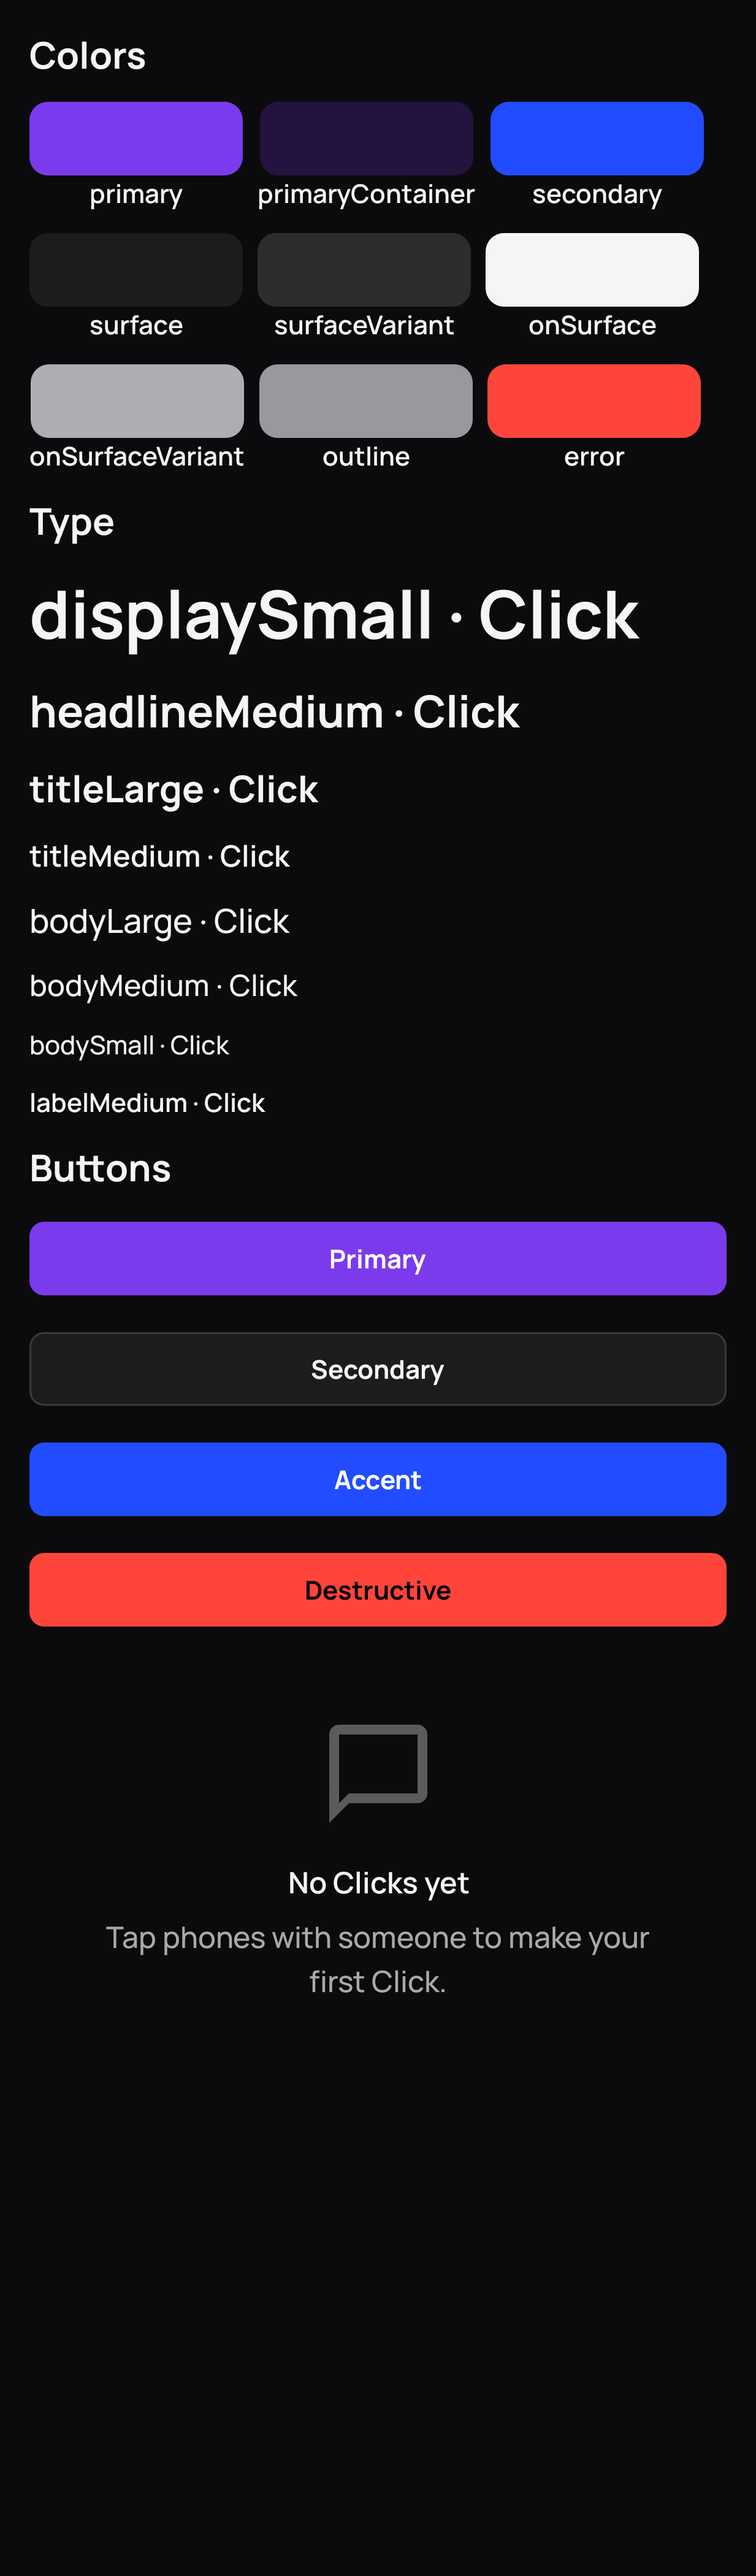
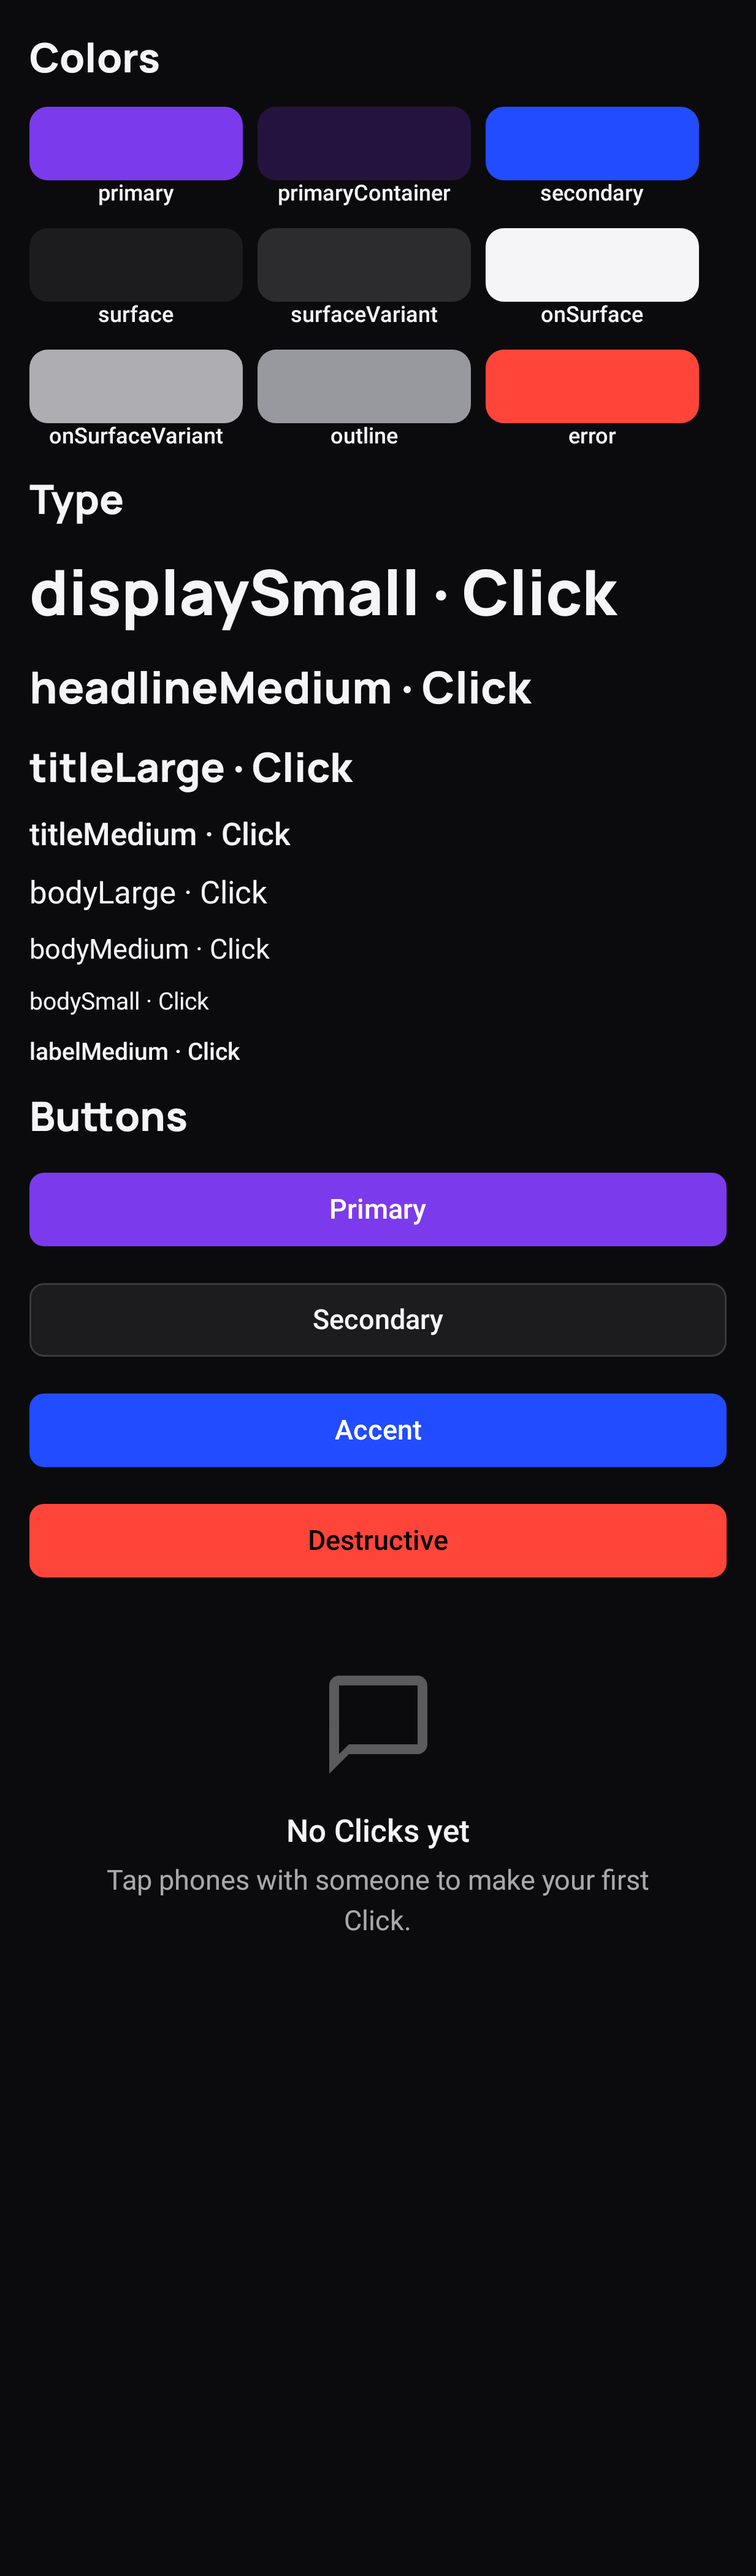
feat(theme): Manrope for headings only, system face for text
Matches click-web DESIGN.md and iOS Typography.swift: display, headline
and titleLarge are Manrope ExtraBold; titleMedium and below use the
platform face (regular body 17/15/13, semibold labels, 12sp floor).
Screenshot baselines re-recorded.

Claude-Session: https://claude.ai/code/session_014RJayqsnMRxsxn4CwuXC9w

diff --git a/composeApp/src/commonMain/kotlin/compose/project/click/click/ui/theme/Typography.kt b/composeApp/src/commonMain/kotlin/compose/project/click/click/ui/theme/Typography.kt
@@ -8,6 +8,7 @@ import androidx.compose.ui.text.font.FontFamily
 import androidx.compose.ui.text.font.FontWeight
 import androidx.compose.ui.text.style.LineHeightStyle
 import androidx.compose.ui.unit.sp
+import click.composeapp.generated.resources.Manrope_ExtraBold
 import click.composeapp.generated.resources.Res
 import click.composeapp.generated.resources.manrope_bold
 import click.composeapp.generated.resources.manrope_medium
@@ -17,133 +18,82 @@ import org.jetbrains.compose.resources.Font
 
 val ManropeFontFamily: FontFamily
     @Composable
-    get() = FontFamily(
-        Font(Res.font.manrope_regular, FontWeight.Normal),
-        Font(Res.font.manrope_medium, FontWeight.Medium),
-        Font(Res.font.manrope_semibold, FontWeight.SemiBold),
-        Font(Res.font.manrope_bold, FontWeight.Bold),
-    )
-
-private fun TextStyle.withManrope(family: FontFamily): TextStyle = copy(fontFamily = family)
+    get() =
+        FontFamily(
+            Font(Res.font.manrope_regular, FontWeight.Normal),
+            Font(Res.font.manrope_medium, FontWeight.Medium),
+            Font(Res.font.manrope_semibold, FontWeight.SemiBold),
+            Font(Res.font.manrope_bold, FontWeight.Bold),
+            Font(Res.font.Manrope_ExtraBold, FontWeight.ExtraBold),
+        )
 
 /**
- * Functional Clarity typography — Manrope with oversized headlines and
- * minimum 14sp body/label sizes.
+ * "Quiet Presence" type (click-web DESIGN.md, iOS DesignSystem/Typography.swift): Manrope ExtraBold
+ * for display and section titles only; every other role uses the platform face (Roboto) so body
+ * text reads like the rest of Android. Nothing is smaller than 12sp.
+ *
+ * | Role | Size/line | Face |
+ * |---|---|---|
+ * | display* | 44/48 · 40/44 · 34/40 | Manrope 800 |
+ * | headlineLarge / Medium / Small | 28/34 · 24/30 · 22/28 | Manrope 800 |
+ * | titleLarge | 22/28 | Manrope 800 |
+ * | titleMedium / Small | 17/24 · 15/20 | system 600 |
+ * | bodyLarge / Medium / Small | 17/24 · 15/22 · 13/18 | system 400 |
+ * | labelLarge / Medium / Small | 15/20 · 13/18 · 12/16 | system 600 |
  */
 @Composable
 fun clickTypography(): Typography {
-    val family = ManropeFontFamily
+    val display = ManropeFontFamily
+    val text = FontFamily.Default
+
+    fun heading(
+        size: Int,
+        line: Int,
+        tracking: Double = 0.0,
+    ) = TextStyle(
+        fontFamily = display,
+        fontWeight = FontWeight.ExtraBold,
+        fontSize = size.sp,
+        lineHeight = line.sp,
+        letterSpacing = tracking.sp,
+    )
+
+    fun body(
+        size: Int,
+        line: Int,
+        weight: FontWeight,
+    ) = TextStyle(fontFamily = text, fontWeight = weight, fontSize = size.sp, lineHeight = line.sp)
     return Typography(
-        displayLarge = TextStyle(
-            fontFamily = family,
-            fontWeight = FontWeight.Bold,
-            fontSize = 48.sp,
-            lineHeight = 52.sp,
-            letterSpacing = (-0.04).sp,
-        ),
-        displayMedium = TextStyle(
-            fontFamily = family,
-            fontWeight = FontWeight.Bold,
-            fontSize = 40.sp,
-            lineHeight = 44.sp,
-            letterSpacing = (-0.03).sp,
-        ),
-        displaySmall = TextStyle(
-            fontFamily = family,
-            fontWeight = FontWeight.Bold,
-            fontSize = 36.sp,
-            lineHeight = 40.sp,
-            letterSpacing = (-0.02).sp,
-        ),
-        headlineLarge = TextStyle(
-            fontFamily = family,
-            fontWeight = FontWeight.Bold,
-            fontSize = 32.sp,
-            lineHeight = 40.sp,
-            letterSpacing = (-0.02).sp,
-        ),
-        headlineMedium = TextStyle(
-            fontFamily = family,
-            fontWeight = FontWeight.Bold,
-            fontSize = 24.sp,
-            lineHeight = 32.sp,
-        ),
-        headlineSmall = TextStyle(
-            fontFamily = family,
-            fontWeight = FontWeight.Bold,
-            fontSize = 20.sp,
-            lineHeight = 28.sp,
-        ),
-        titleLarge = TextStyle(
-            fontFamily = family,
-            fontWeight = FontWeight.Bold,
-            fontSize = 20.sp,
-            lineHeight = 28.sp,
-        ),
-        titleMedium = TextStyle(
-            fontFamily = family,
-            fontWeight = FontWeight.SemiBold,
-            fontSize = 16.sp,
-            lineHeight = 24.sp,
-        ),
-        titleSmall = TextStyle(
-            fontFamily = family,
-            fontWeight = FontWeight.SemiBold,
-            fontSize = 14.sp,
-            lineHeight = 20.sp,
-        ),
-        bodyLarge = TextStyle(
-            fontFamily = family,
-            fontWeight = FontWeight.Medium,
-            fontSize = 18.sp,
-            lineHeight = 28.sp,
-        ),
-        bodyMedium = TextStyle(
-            fontFamily = family,
-            fontWeight = FontWeight.Medium,
-            fontSize = 16.sp,
-            lineHeight = 24.sp,
-        ),
-        bodySmall = TextStyle(
-            fontFamily = family,
-            fontWeight = FontWeight.Medium,
-            fontSize = 14.sp,
-            lineHeight = 20.sp,
-        ),
-        labelLarge = TextStyle(
-            fontFamily = family,
-            fontWeight = FontWeight.Bold,
-            fontSize = 14.sp,
-            lineHeight = 20.sp,
-        ),
-        labelMedium = TextStyle(
-            fontFamily = family,
-            fontWeight = FontWeight.SemiBold,
-            fontSize = 14.sp,
-            lineHeight = 20.sp,
-        ),
-        labelSmall = TextStyle(
-            fontFamily = family,
-            fontWeight = FontWeight.SemiBold,
-            fontSize = 14.sp,
-            lineHeight = 20.sp,
-        ),
+        displayLarge = heading(44, 48, -0.04),
+        displayMedium = heading(40, 44, -0.03),
+        displaySmall = heading(34, 40, -0.02),
+        headlineLarge = heading(28, 34, -0.02),
+        headlineMedium = heading(24, 30),
+        headlineSmall = heading(22, 28),
+        titleLarge = heading(22, 28),
+        titleMedium = body(17, 24, FontWeight.SemiBold),
+        titleSmall = body(15, 20, FontWeight.SemiBold),
+        bodyLarge = body(17, 24, FontWeight.Normal),
+        bodyMedium = body(15, 22, FontWeight.Normal),
+        bodySmall = body(13, 18, FontWeight.Normal),
+        labelLarge = body(15, 20, FontWeight.SemiBold),
+        labelMedium = body(13, 18, FontWeight.SemiBold),
+        labelSmall = body(12, 16, FontWeight.SemiBold),
     )
 }
 
 /**
  * Input text style for Material text fields.
  *
- * [clickTypography] bodyLarge uses 28sp line height for reading, which is too tall for
- * default Material field chrome. Fields use a shorter line box, centered, with no trim
- * so Manrope descenders (g/y/p) are not clipped.
+ * Fields use a centered 24sp line box with no trim, so descenders (g/y/p) are never clipped.
  */
 @Composable
 fun clickTextFieldTextStyle(): TextStyle =
     MaterialTheme.typography.bodyLarge.copy(
         lineHeight = 24.sp,
-        lineHeightStyle = LineHeightStyle(
-            alignment = LineHeightStyle.Alignment.Center,
-            trim = LineHeightStyle.Trim.None,
-        ),
+        lineHeightStyle =
+            LineHeightStyle(
+                alignment = LineHeightStyle.Alignment.Center,
+                trim = LineHeightStyle.Trim.None,
+            ),
     )

diff --git a/composeApp/src/androidUnitTest/kotlin/compose/project/click/click/ui/theme/TypographyScaleTest.kt b/composeApp/src/androidUnitTest/kotlin/compose/project/click/click/ui/theme/TypographyScaleTest.kt
@@ -1,0 +1,59 @@
+package compose.project.click.click.ui.theme
+
+import androidx.compose.material3.Typography
+import androidx.compose.ui.test.ExperimentalTestApi
+import androidx.compose.ui.test.runComposeUiTest
+import androidx.compose.ui.text.font.FontFamily
+import androidx.compose.ui.text.font.FontWeight
+import org.junit.runner.RunWith
+import org.robolectric.RobolectricTestRunner
+import org.robolectric.annotation.Config
+import kotlin.test.Test
+import kotlin.test.assertEquals
+import kotlin.test.assertNotEquals
+import kotlin.test.assertTrue
+
+@RunWith(RobolectricTestRunner::class)
+@Config(sdk = [35])
+@OptIn(ExperimentalTestApi::class)
+class TypographyScaleTest {
+    private fun capture(): Typography {
+        var typography: Typography? = null
+        runComposeUiTest { setContent { typography = clickTypography() } }
+        return typography!!
+    }
+
+    @Test
+    fun nothingIsSmallerThanTwelveSp() {
+        val t = capture()
+        listOf(
+            t.displayLarge,
+            t.displayMedium,
+            t.displaySmall,
+            t.headlineLarge,
+            t.headlineMedium,
+            t.headlineSmall,
+            t.titleLarge,
+            t.titleMedium,
+            t.titleSmall,
+            t.bodyLarge,
+            t.bodyMedium,
+            t.bodySmall,
+            t.labelLarge,
+            t.labelMedium,
+            t.labelSmall,
+        ).forEach { assertTrue(it.fontSize.value >= 12f, "${it.fontSize}") }
+    }
+
+    @Test
+    fun manropeForHeadingsOnlySystemFaceForText() {
+        val t = capture()
+        assertEquals(FontFamily.Default, t.bodyLarge.fontFamily)
+        assertEquals(FontFamily.Default, t.labelMedium.fontFamily)
+        assertEquals(FontFamily.Default, t.titleMedium.fontFamily)
+        assertNotEquals(FontFamily.Default, t.headlineSmall.fontFamily)
+        assertEquals(FontWeight.ExtraBold, t.titleLarge.fontWeight)
+        assertEquals(FontWeight.Normal, t.bodyMedium.fontWeight)
+        assertEquals(17f, t.bodyLarge.fontSize.value)
+    }
+}
